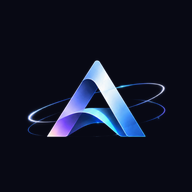
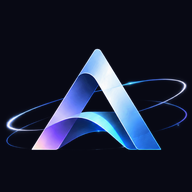
Pad the brand mark onto a transparent 995 square.
The artwork stays centered and unscaled. Favicon and app icons are regenerated from that square.

Changed region(s): [[0.0312, 0.25, 1.0, 0.7812], [0.8438, 0.5625, 1.0, 0.6875], [0.7812, 0.5938, 0.8438, 0.625]]

diff --git a/test/brand-kit.test.ts b/test/brand-kit.test.ts
@@ -46,8 +46,8 @@ test("brand kit is the only logo set and matches the file contract", () => {
   const full = pngSize(join(brandDir, "logo-full.png"));
   assert.ok(full.width >= 1024, "logo-full is at least 1024px wide");
   assert.ok(full.width > full.height, "logo-full is horizontal");
-  const mark = pngSize(join(brandDir, "mark.png"));
-  assert.ok(Math.min(mark.width, mark.height) >= 512, "mark is at least 512px");
+  assert.deepEqual(pngSize(join(brandDir, "mark.png")), { width: 995, height: 995 });
+  assert.deepEqual(pngSize(join(brandDir, "mark-white.png")), { width: 995, height: 995 });
   assert.deepEqual(pngSize(join(brandDir, "apple-touch-icon.png")), { width: 180, height: 180 });
   assert.deepEqual(pngSize(join(brandDir, "favicon-32.png")), { width: 32, height: 32 });
   assert.deepEqual(pngSize(join(brandDir, "icon-192.png")), { width: 192, height: 192 });

diff --git a/components/AuthShell.tsx b/components/AuthShell.tsx
@@ -11,7 +11,7 @@ export function AuthShell({ children, help }: { children: ReactNode; help?: Reac
     <main className="auth-page">
       <div className="auth-top">
         <Link className="brand" href="/" aria-label="Apixis Wallet HQ">
-          <Image className="brand-mark" src="/brand/mark.png" alt="" width={995} height={562} />
+          <Image className="brand-mark" src="/brand/mark.png" alt="" width={995} height={995} />
           <div>
             <strong>APIXIS</strong>
             <span>FAMILY // WALLET</span>

diff --git a/NOTES/GROK.md b/NOTES/GROK.md
@@ -264,3 +264,6 @@ Recorded by Grok (Developer Bot, notes and status sync at 12:25 AM CT on Oct 5).
 
 ## 2026-10-17 (CT) — official logo kit
 - 2026-10-17 ~12:20 PM CT — Cursor — What: one kit at `public/brand/`, served at `/brand/`. Horizontal lockup (`logo-full.png`, mark left and name right), white copies, mark, favicon.ico, favicon-32, apple-touch-icon (180), icon-192, icon-512, og-image (1200×630), `brand.json`, `README.md`. Header, metadata icons, OG image, and manifest use those paths. Deleted `public/brand/apixis-family-logo.png`. No SVG and no second logo folder. Colors read from the cyber theme. Domain `wallet.apixis.dev`. No env change. Who: Cursor. Undo: `git revert` this PR’s squash commit.
+
+## 2026-10-17 (CT) — square mark
+- 2026-10-17 ~12:35 PM CT — Cursor — What: `mark.png` and `mark-white.png` padded, centered, onto a transparent 995×995 canvas. Artwork not scaled. `favicon.ico`, `favicon-32.png`, `apple-touch-icon.png`, `icon-192.png`, and `icon-512.png` regenerated from the square mark. `brand.json` has no sizes, so it was not edited. Test asserts 995×995. Where: PR #73, branch `cursor/wallet-logo-kit-5122`. Who: Cursor. Undo: `git revert` this commit.

diff --git a/AI_CHANGELOG.md b/AI_CHANGELOG.md
@@ -221,3 +221,7 @@ Entry format:
 ## 2026-10-17 — Cursor: Wallet logo kit
 - Changed: one logo kit in `public/brand/` (horizontal `logo-full.png`, white lockup, mark, favicon, Apple touch icon, 192/512 icons, 1200×630 OG image, `brand.json`, `README.md`). Header, metadata icons, Open Graph image, and the web manifest point at `/brand/`. Removed `public/brand/apixis-family-logo.png`. No SVG. Domain in the kit is `wallet.apixis.dev`.
 - Why: the Wallet header used the stacked official logo, and production had no favicon, Apple touch icon, or OG image. The kit is built from that official PNG (mark on the left, name on the right) without redrawing it.
+
+## 2026-10-17 — Cursor: square brand mark
+- Changed: `public/brand/mark.png` and `mark-white.png` are 995×995 transparent squares. The 995×562 artwork is centered and not scaled. Favicon, Apple touch icon, and 192/512 icons were regenerated from that square. `brand.json` does not list sizes, so it was left as-is. Login image size and `test/brand-kit.test.ts` match 995×995.
+- Why: the mark files were wide rectangles. The icon set should come from a square canvas.

diff --git a/public/brand/README.md b/public/brand/README.md
@@ -10,8 +10,8 @@ Colors are the live Wallet theme: primary `#63f6f0` (`--ix-cyan`), accent `#ffd7
 | --- | --- |
 | `logo-full.png` | Horizontal lockup. Site header and anywhere the full name should show. Transparent. |
 | `logo-full-white.png` | Same lockup, white, for dark backgrounds. Transparent. |
-| `mark.png` | Icon only. Transparent. Source for the small icons. |
-| `mark-white.png` | Icon only, white. Transparent. |
+| `mark.png` | Icon only. Transparent 995×995 square; the artwork is centered and not stretched. Source for the small icons. |
+| `mark-white.png` | Same square, white. Transparent. |
 | `favicon.ico` | Browser tab fallback (16, 32, and 48). Mark on the theme background. |
 | `favicon-32.png` | 32px PNG tab icon. Mark on the theme background. |
 | `apple-touch-icon.png` | 180px Apple touch icon. Mark on the theme background. |
